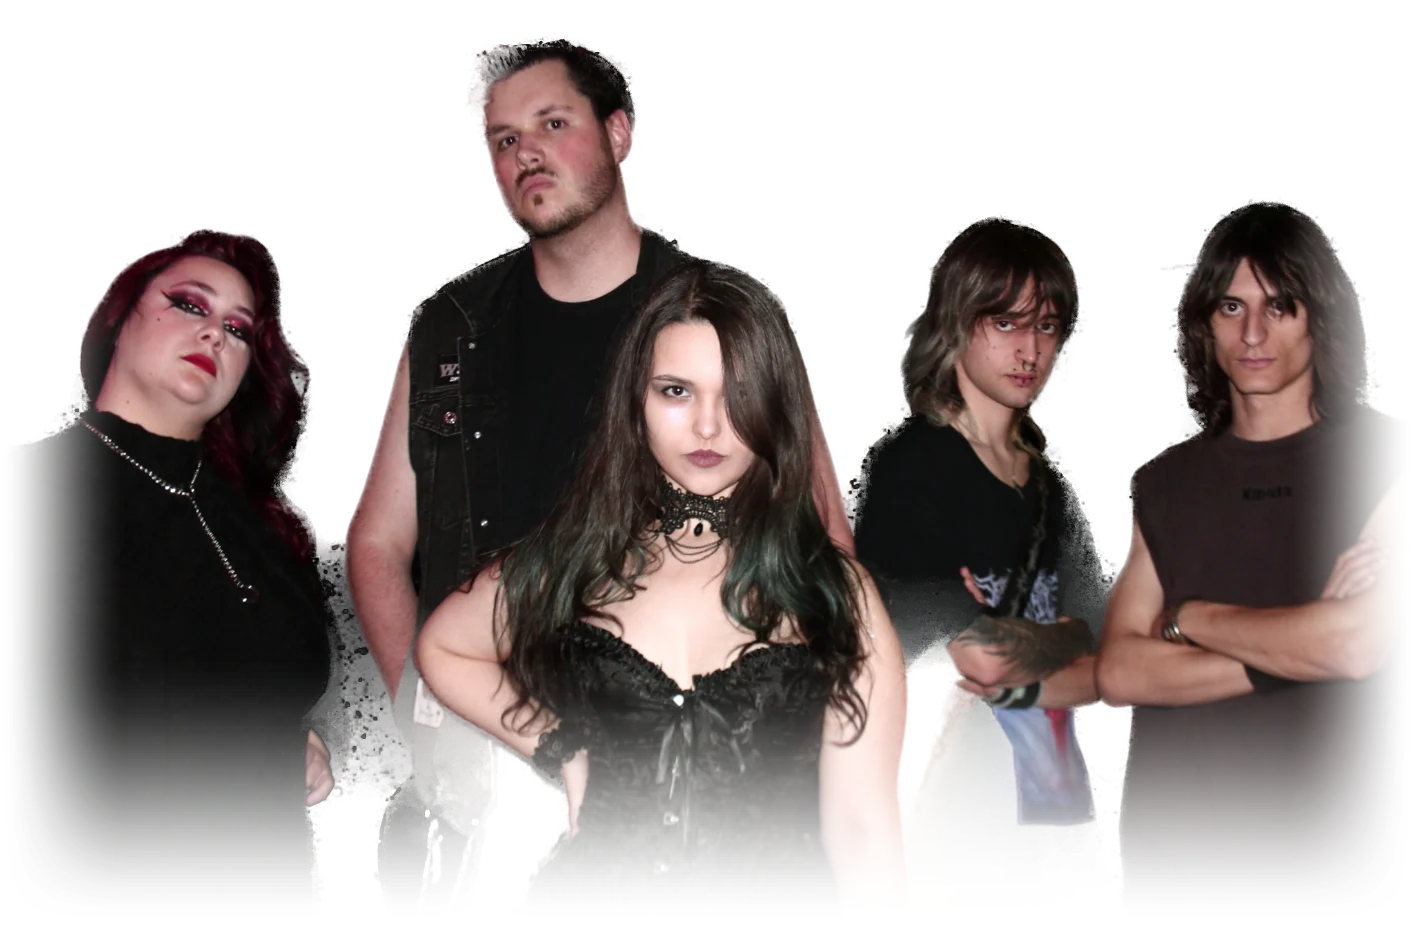
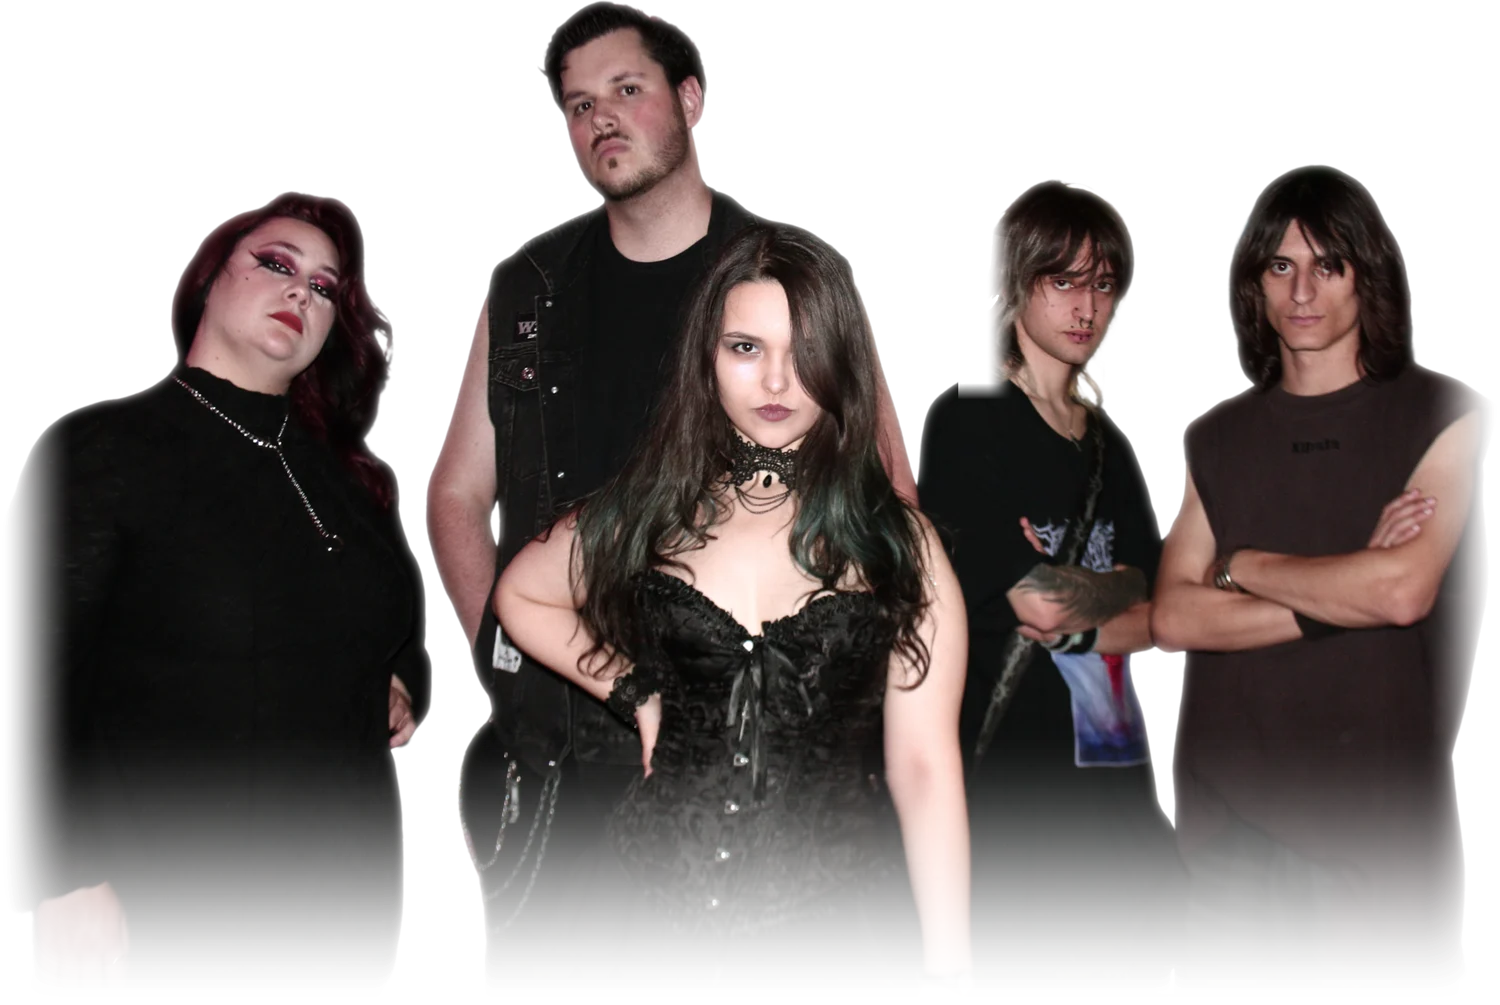
Entrance animation on load, Cover_Maker colours, new ODISEA photo
- Reveal elements are hidden from the first paint and animate in on load,
  reload and page changes; each waits for its images (up to 2.5 s) and the
  fonts, so a slow photo no longer breaks the effect. Without JavaScript or
  with reduced motion everything shows at once.
- Cover_Maker's page takes the violet and pink of its logo: purple accent
  and violet ink in a magenta haze.
- New ODISEA band photo (cleaned around the fourth member's hair), larger
  Orion photo on phones.
- Home: technologies are 03 and education and experience 04.

diff --git a/components/RevealObserver.tsx b/components/RevealObserver.tsx
@@ -2,30 +2,67 @@
 
 import { useEffect } from "react";
 
+/** Longest wait for an element's images before revealing it anyway. */
+const IMAGE_TIMEOUT = 2500;
+
+/** Resolves once every image inside `el` (or `el` itself) has loaded or failed. */
+function imagesReady(el: Element): Promise<void> {
+  const images = el instanceof HTMLImageElement ? [el] : [...el.querySelectorAll("img")];
+  const pending = images.filter((img) => !img.complete);
+  if (pending.length === 0) return Promise.resolve();
+  const loads = pending.map(
+    (img) =>
+      new Promise<void>((resolve) => {
+        img.addEventListener("load", () => resolve(), { once: true });
+        img.addEventListener("error", () => resolve(), { once: true });
+      }),
+  );
+  return Promise.race([Promise.all(loads).then(() => {}), new Promise<void>((r) => setTimeout(r, IMAGE_TIMEOUT))]);
+}
+
 /**
  * Toggles `data-shown` on every `[data-reveal]` element as it enters or leaves the
- * viewport, including elements added later by client navigation. `data-side` says
- * where a hidden element went, so it leaves upwards and comes back from below.
+ * viewport, including elements added later by client navigation. CSS keeps them
+ * hidden from the first paint; an element is only shown once its images (and the
+ * fonts) are ready, so a slow photo never pops in after its animation has played.
+ * `data-side` says where a hidden element went, so it leaves upwards and comes
+ * back from below.
  */
 export function RevealObserver() {
   useEffect(() => {
     if (window.matchMedia("(prefers-reduced-motion: reduce)").matches) return;
-    // Set here rather than in the server HTML: React owns <html>'s class and would
-    // undo it during hydration.
-    document.documentElement.dataset.motion = "on";
+
+    const visible = new WeakSet<Element>();
+    const fonts = document.fonts?.ready ?? Promise.resolve();
 
     const io = new IntersectionObserver(
       (entries) => {
         for (const entry of entries) {
           const el = entry.target as HTMLElement;
-          el.toggleAttribute("data-shown", entry.isIntersecting);
-          if (!entry.isIntersecting) el.dataset.side = entry.boundingClientRect.top < 0 ? "above" : "below";
+          if (entry.isIntersecting) {
+            visible.add(el);
+            Promise.all([fonts, imagesReady(el)]).then(() => {
+              // Still on screen? Then play it (two frames so the hidden state is painted first).
+              if (!visible.has(el)) return;
+              requestAnimationFrame(() => requestAnimationFrame(() => el.setAttribute("data-shown", "")));
+            });
+          } else {
+            visible.delete(el);
+            el.removeAttribute("data-shown");
+            el.dataset.side = entry.boundingClientRect.top < 0 ? "above" : "below";
+          }
         }
       },
       { rootMargin: "-6% 0px -10% 0px", threshold: 0.15 },
     );
 
-    const observeAll = () => document.querySelectorAll("[data-reveal]").forEach((el) => io.observe(el));
+    const observed = new WeakSet<Element>();
+    const observeAll = () =>
+      document.querySelectorAll("[data-reveal]").forEach((el) => {
+        if (observed.has(el)) return;
+        observed.add(el);
+        io.observe(el);
+      });
     observeAll();
     const mo = new MutationObserver(observeAll);
     mo.observe(document.body, { childList: true, subtree: true });
@@ -33,7 +70,6 @@ export function RevealObserver() {
     return () => {
       io.disconnect();
       mo.disconnect();
-      delete document.documentElement.dataset.motion;
     };
   }, []);
 

diff --git a/app/[lang]/page.tsx b/app/[lang]/page.tsx
@@ -180,16 +180,8 @@ export default async function Home({ params }: PageProps<"/[lang]">) {
         </ul>
       </section>
 
-      <section id="trayectoria" className="flex scroll-mt-24 flex-col gap-10">
-        <SectionHeading index="03" title={t.home.path} />
-        <div className="grid gap-10 md:grid-cols-2">
-          <Timeline title={t.home.education} entries={profile.education} lang={lang} />
-          <Timeline title={t.home.experience} entries={profile.experience} lang={lang} />
-        </div>
-      </section>
-
       <section id="stack" className="flex scroll-mt-24 flex-col gap-10">
-        <SectionHeading index="04" title={t.home.stack} />
+        <SectionHeading index="03" title={t.home.stack} />
         <div className="grid gap-5 sm:grid-cols-2 lg:grid-cols-3">
           {profile.technologies.map((group, i) => (
             <div key={group.group.es} data-reveal style={stagger(i % 3)} className={`${panel} flex flex-col gap-4 p-5`}>
@@ -203,6 +195,14 @@ export default async function Home({ params }: PageProps<"/[lang]">) {
               </ul>
             </div>
           ))}
+        </div>
+      </section>
+
+      <section id="trayectoria" className="flex scroll-mt-24 flex-col gap-10">
+        <SectionHeading index="04" title={t.home.path} />
+        <div className="grid gap-10 md:grid-cols-2">
+          <Timeline title={t.home.education} entries={profile.education} lang={lang} />
+          <Timeline title={t.home.experience} entries={profile.experience} lang={lang} />
         </div>
       </section>
 

diff --git a/app/globals.css b/app/globals.css
@@ -67,9 +67,11 @@ header nav[aria-label] ul {
 
 /* Scroll reveal: elements rise in from below as they enter the viewport and drift
    out upwards (or back down) as they leave it, with a short stagger between
-   siblings. RevealObserver arms it with data-motion, so without JavaScript or with
-   reduced motion nothing is ever hidden. */
-[data-motion] [data-reveal] {
+   siblings. They are hidden from the very first paint, so a reload or a new page
+   animates in instead of flashing; RevealObserver shows each one once its images
+   are loaded. Without JavaScript (<noscript> in the layout) or with reduced
+   motion nothing is ever hidden. */
+[data-reveal] {
   opacity: 0;
   filter: blur(6px);
   transform: translateY(56px) scale(0.98);
@@ -81,12 +83,21 @@ header nav[aria-label] ul {
   will-change: opacity, transform;
 }
 
-[data-motion] [data-reveal][data-side="above"] {
+[data-reveal][data-side="above"] {
   transform: translateY(-56px) scale(0.98);
 }
 
-[data-motion] [data-reveal][data-shown] {
+[data-reveal][data-shown] {
   opacity: 1;
   filter: none;
   transform: none;
+}
+
+@media (prefers-reduced-motion: reduce) {
+  [data-reveal] {
+    opacity: 1;
+    filter: none;
+    transform: none;
+    transition: none;
+  }
 }

diff --git a/components/InkBackground.tsx b/components/InkBackground.tsx
@@ -81,17 +81,20 @@ void main() {
 
 type Palette = { tint: [number, number, number]; water: [number, number, number] };
 
-const PALETTES: Record<"cobalt" | "blood" | "ritual", Palette> = {
+const PALETTES: Record<"cobalt" | "blood" | "ritual" | "studio", Palette> = {
   cobalt: { tint: [0.055, 0.165, 0.66], water: [0.04, 0.062, 0.16] },
   // The deep red of ODISEA's artwork.
   blood: { tint: [0.6, 0.035, 0.05], water: [0.15, 0.025, 0.03] },
   // The purple of Orion Rituals' Halloween poster.
   ritual: { tint: [0.42, 0.26, 0.82], water: [0.13, 0.09, 0.25] },
+  // Cover_Maker's logo: violet filaments in a magenta haze.
+  studio: { tint: [0.4, 0.33, 0.86], water: [0.19, 0.05, 0.13] },
 };
 
 export function paletteFor(pathname: string): keyof typeof PALETTES {
   if (/\/paralelos\/odisea(\/|$)/.test(pathname)) return "blood";
   if (/\/paralelos\/orion-rituals(\/|$)/.test(pathname)) return "ritual";
+  if (/\/projects\/cover-maker(\/|$)/.test(pathname)) return "studio";
   return "cobalt";
 }
 

diff --git a/app/[lang]/paralelos/orion-rituals/page.tsx b/app/[lang]/paralelos/orion-rituals/page.tsx
@@ -53,7 +53,7 @@ export default async function OrionPage({ params }: PageProps<"/[lang]/paralelos
         >
           ← {t.side.title}
         </Link>
-        <div className="relative z-10 flex flex-col gap-8 md:col-start-1 md:row-start-2 md:self-start -mt-20 sm:-mt-28 md:mt-0">
+        <div className="relative z-10 flex flex-col gap-8 md:col-start-1 md:row-start-2 md:self-start -mt-24 sm:-mt-32 md:mt-0">
           <h1 data-reveal style={stagger(1)}>
             <Image
               src={orion.logo.src}
@@ -99,7 +99,7 @@ export default async function OrionPage({ params }: PageProps<"/[lang]/paralelos
             height={orion.photo.height}
             priority
             unoptimized
-            className="h-auto max-h-[46svh] w-auto drop-shadow-[0_0_40px_rgb(155_132_240/0.35)] md:max-h-[80svh]"
+            className="h-auto max-h-[60svh] w-auto max-w-full drop-shadow-[0_0_40px_rgb(155_132_240/0.35)] md:max-h-[80svh]"
           />
         </div>
       </section>

diff --git a/app/[lang]/projects/[slug]/page.tsx b/app/[lang]/projects/[slug]/page.tsx
@@ -93,7 +93,8 @@ export default async function ProjectPage({ params }: PageProps<"/[lang]/project
   const index = (name: string) => String(sections.indexOf(name) + 1).padStart(2, "0");
 
   return (
-    <article className="flex flex-col gap-24 pb-28 pt-16 sm:pt-24">
+    // Each project can carry its own accent (Cover_Maker: the violet of its logo).
+    <article className="flex flex-col gap-24 pb-28 pt-16 sm:pt-24" style={project.accent ? ({ "--accent": project.accent[0], "--accent-strong": project.accent[1] } as React.CSSProperties) : undefined}>
       <header className="flex flex-col gap-8">
         <div data-reveal className="flex items-center gap-5">
           <Image

diff --git a/content/projects.ts b/content/projects.ts
@@ -39,6 +39,8 @@ export type Project = {
   /** Square icon in public/, shown on the card and the project page. */
   icon: string;
   screenshots: Screenshot[];
+  /** Accent colours of the project page: [accent, strong]. */
+  accent?: [string, string];
   /** Shown on the project page, below the download button. */
   notice?: Localized;
 };
@@ -47,6 +49,7 @@ export const projects: Project[] = [
   {
     slug: "cover-maker",
     icon: "/cover-maker.svg",
+    accent: ["#8f7bff", "#6b4eff"],
     name: "Cover_Maker",
     tagline: {
       es: "Separación de stems con IA, en local, para músicos y productores.",

diff --git a/app/[lang]/layout.tsx b/app/[lang]/layout.tsx
@@ -80,6 +80,10 @@ export default async function RootLayout({ children }: LayoutProps<"/[lang]">) {
       className={`${geistSans.variable} ${geistMono.variable} ${jakarta.variable} h-full antialiased`}
     >
       <body className="flex min-h-full flex-col font-sans">
+        {/* Without JavaScript the scroll reveal never runs: show everything. */}
+        <noscript>
+          <style>{"[data-reveal]{opacity:1!important;filter:none!important;transform:none!important}"}</style>
+        </noscript>
         <InkBackground />
         <RevealObserver />
         <SmoothScroll />

diff --git a/content/odisea.ts b/content/odisea.ts
@@ -5,7 +5,7 @@ export const odisea = {
   slug: "odisea",
   name: "ODISEA",
   logo: { src: "/side/odisea.webp", width: 1400, height: 553 },
-  photo: { src: "/side/odisea/banda-fundido.webp", width: 1414, height: 925 },
+  photo: { src: "/side/odisea/banda-fundido.webp", width: 1500, height: 1005 },
   kicker: { es: "Metalcore alternativo · Cádiz · 2022 – 2026", en: "Alternative metalcore · Cádiz · 2022 – 2026" },
   intro: {
     es: "Mi antigua banda. Melodías intensas, riffs contundentes y una estética cuidada al detalle, entre la rabia y la sensibilidad.",
